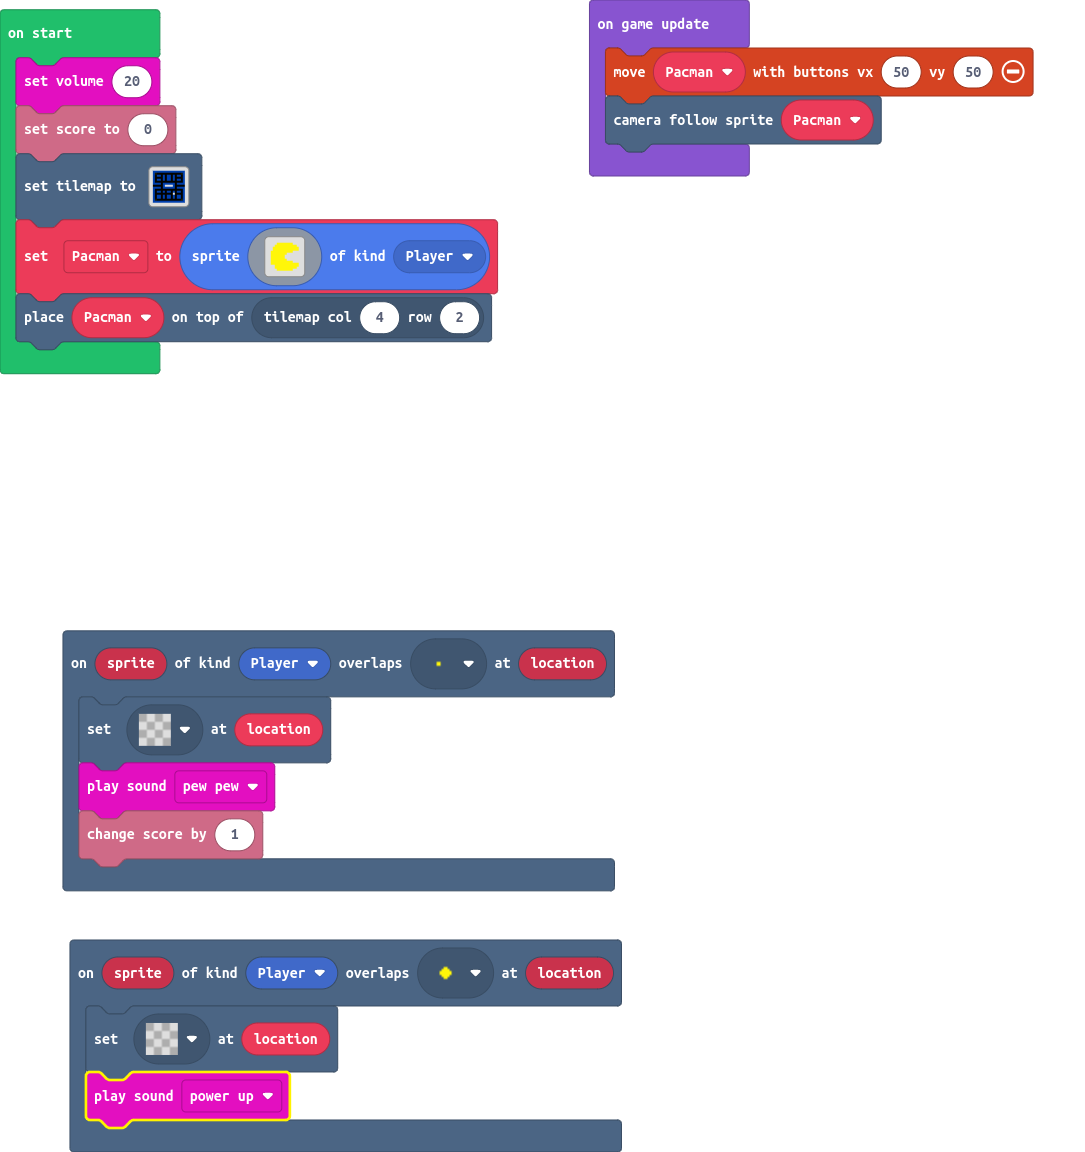
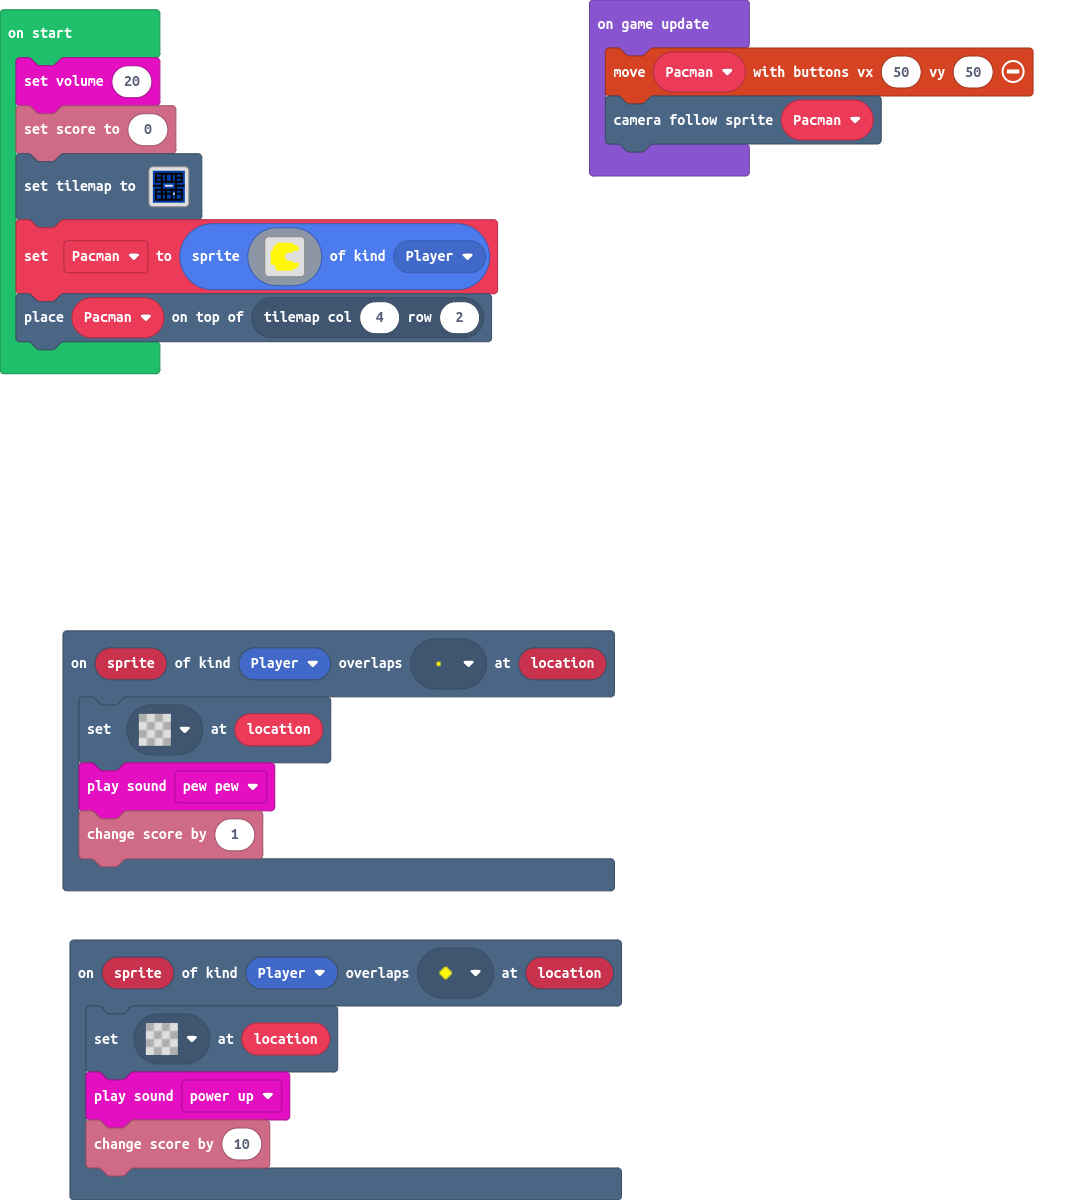
eating power pellets add 10 points.

Changed region(s): [[0.0608, 0.5, 0.5779, 1.0], [0.0, 0.0, 0.4562, 0.3438], [0.5475, 0.0, 0.9429, 0.1562]]

diff --git a/main.ts b/main.ts
@@ -84,6 +84,7 @@ scene.onOverlapTile(SpriteKind.Player, myTiles.tile2, function (sprite, location
 scene.onOverlapTile(SpriteKind.Player, myTiles.tile3, function (sprite, location) {
     tiles.setTileAt(location, myTiles.tile0)
     music.powerUp.play()
+    info.changeScoreBy(10)
 })
 music.setVolume(20)
 info.setScore(0)
